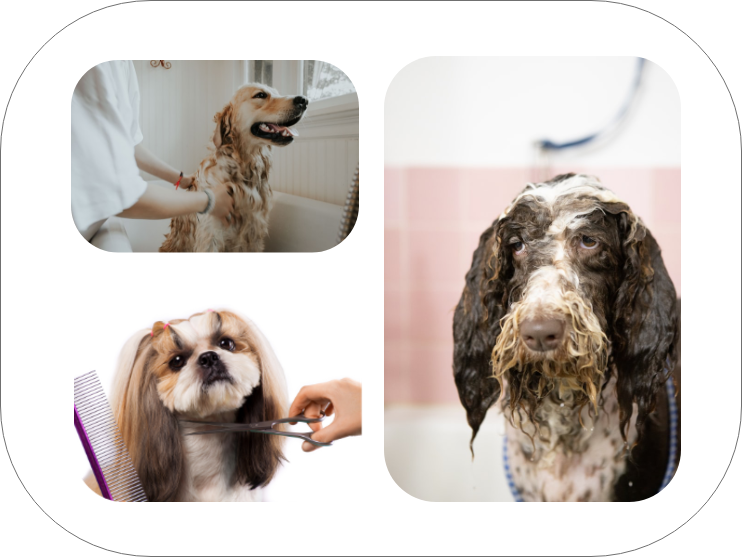
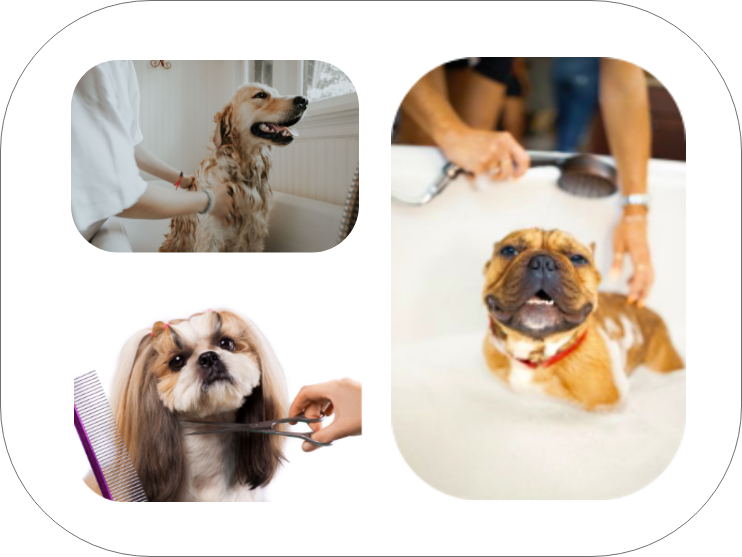
Change homepage image and style main message

Changed region(s): [[0.496, 0.0916, 0.9299, 0.9156]]

diff --git a/gallery.html b/gallery.html
@@ -59,7 +59,9 @@
             <div class="responsive"><a href="assets/images/gallery/dog1big.jpg" data-lightbox="mygallery"><img src="assets/images/gallery/dog1small.jpg"></a></div>
             <div class="responsive"><a href="assets/images/gallery/dog2big.jpg" data-lightbox="mygallery"><img src="assets/images/gallery/dog2small.jpg"></a></div>
             <div class="responsive"><a href="assets/images/gallery/dog3big.jpg" data-lightbox="mygallery"><img src="assets/images/gallery/dog3small.jpg"></a></div>
+            <div class="responsive"><a href="assets/images/gallery/derek2big.jpg" data-lightbox="mygallery"><img src="assets/images/gallery/derek2small.jpg"></a></div>
             <div class="responsive"><a href="assets/images/gallery/dog4big.jpg" data-lightbox="mygallery"><img src="assets/images/gallery/dog4small.jpg"></a></div>
+            <div class="responsive"><a href="assets/images/gallery/derek5big.jpg" data-lightbox="mygallery"><img src="assets/images/gallery/derek5small.jpg"></a></div>
             <div class="responsive"><a href="assets/images/gallery/dog5big.jpg" data-lightbox="mygallery"><img src="assets/images/gallery/dog5small.jpg"></a></div>
             <div class="responsive"><a href="assets/images/gallery/dog6big.jpg" data-lightbox="mygallery"><img src="assets/images/gallery/dog6small.jpg"></a></div>
             <div class="responsive"><a href="assets/images/gallery/dog7big.jpg" data-lightbox="mygallery"><img src="assets/images/gallery/dog7small.jpg"></a></div>
@@ -68,10 +70,9 @@
             <div class="responsive"><a href="assets/images/gallery/dog10big.jpg" data-lightbox="mygallery"><img src="assets/images/gallery/dog10small.jpg"></a></div>
             <div class="responsive"><a href="assets/images/gallery/dog11big.jpg" data-lightbox="mygallery"><img src="assets/images/gallery/dog11small.jpg"></a></div>
             <div class="responsive"><a href="assets/images/gallery/derek1big.jpg" data-lightbox="mygallery"><img src="assets/images/gallery/derek1small.jpg"></a></div>
-            <div class="responsive"><a href="assets/images/gallery/derek2big.jpg" data-lightbox="mygallery"><img src="assets/images/gallery/derek2small.jpg"></a></div>
             <div class="responsive"><a href="assets/images/gallery/derek3big.jpg" data-lightbox="mygallery"><img src="assets/images/gallery/derek3small.jpg"></a></div>
             <div class="responsive"><a href="assets/images/gallery/derek4big.jpg" data-lightbox="mygallery"> <img src="assets/images/gallery/derek4small.jpg"></a></div>
-            <div class="responsive"><a href="assets/images/gallery/derek5big.jpg" data-lightbox="mygallery"><img src="assets/images/gallery/derek5small.jpg"></a></div>
+            
         </div>
     </div>
     <!-- ----------------------------Footer -------------------------------->
@@ -81,7 +82,8 @@
                 Phone: 0875553555 <br> Email: info@doggystyle.ie
             </div>
             <div class="col-sm" id="call-button-container">
-                <button type="button" class="call-button footer-element">Contact DoggyStyle</button>
+                <a href="contact.html">
+                <button type="button" class="call-button footer-element">Contact DoggyStyle</button></a>
             </div>
             <div class="col-sm footer-element" id="social-icons">
                 <i class="fab fa-twitter-square"></i>

diff --git a/index.html b/index.html
@@ -52,13 +52,13 @@
     <div class="home-container">
         <div class="main-message order-2 order-md-1">
             <h1>Grubby Dog?</h1>
-            <p>We’ll get them clean in a jiffy! Leave your fur baby with us for
-                the ultimate doggy day spa experience. Guaranteed to leave with a
+            <p>We’ll get them clean in a jiffy!<br><hr> Leave your fur baby with us for
+                the ultimate doggy day spa experience.<br> <hr> Guaranteed to leave with a
                 wagging tail. <br>
                 <i class="fas fa-shower"></i><i class="fas fa-cut"></i>
             </p>
             
-            <span><button type="button" class="call-button">Make Appointment</button></span>
+            <a href="contact.html"><span><button type="button" class="call-button">Make Appointment</button></span></a>
         </div>
 
         <div class="order-1 order-md-2">
@@ -74,7 +74,8 @@
                 Phone: 0875553555 <br> Email: info@doggystyle.ie
             </div>
             <div class="col-sm" id="call-button-container">
-                <button type="button" class="call-button footer-element">Contact DoggyStyle</button>
+            <a href="contact.html">
+                <button type="button" class="call-button footer-element">Contact DoggyStyle</button></a>
             </div>
             <div class="col-sm footer-element" id="social-icons">
                 <a href="https://twitter.com/" target="_blank"><i class="fab fa-twitter-square"></i></a>

diff --git a/assets/css/style.css b/assets/css/style.css
@@ -186,12 +186,26 @@ button:hover{
     font-size: 25px;
     padding: 2rem;
     width: 400px;
-    height: 350px;
+    height: 450px;
 }
 
+.main-message h1{
+    color: #eeb251;
+
+}
+
+.main-message hr{
+    border: 1px solid #eeb251;
+    width: 40px;
+    
+}
+
+.main-message i{
+    color:#eeb251;
+}
 .home-container .spash-image {
     padding: 2px;
-    width: 500px;
+    width: 600px;
 }
 
 .text-field h1 {
@@ -274,7 +288,9 @@ button:hover{
 
 
 /*--------------------------------------------------- Gallery ---------------------------------------------*/
-
+.gallery{
+    padding:40px;
+}
 
 .gallery img {
     width:100%;
@@ -284,6 +300,7 @@ button:hover{
     border-radius: 30px;
     box-shadow: 0 0 16px #333;
     z-index: 999;
+    border:2px solid transparent;
 }
 
 .responsive {

diff --git a/contact.html b/contact.html
@@ -85,7 +85,8 @@
                         Phone: 0875553555 <br> Email: info@doggystyle.ie
                     </div>
                     <div class="col-sm" id="call-button-container">
-                        <button type="button" class="call-button footer-element">Contact DoggyStyle</button>
+                        <a href="contact.html">
+                        <button type="button" class="call-button footer-element">Contact DoggyStyle</button></a>
                     </div>
                     <div class="col-sm footer-element" id="social-icons">
                         <a href="https://twitter.com/" target="_blank"><i class="fab fa-twitter-square"></i></a>

diff --git a/prices.html b/prices.html
@@ -204,7 +204,8 @@
                     Phone: 0875553555 <br> Email: info@doggystyle.ie
                 </div>
                 <div class="col-sm" id="call-button-container">
-                    <button type="button" class="call-button footer-element">Contact DoggyStyle</button>
+                    <a href="contact.html">
+                    <button type="button" class="call-button footer-element">Contact DoggyStyle</button></a>
                 </div>
                 <div class="col-sm footer-element" id="social-icons">
                     <a href="https://twitter.com/" target="_blank"><i class="fab fa-twitter-square"></i></a>
